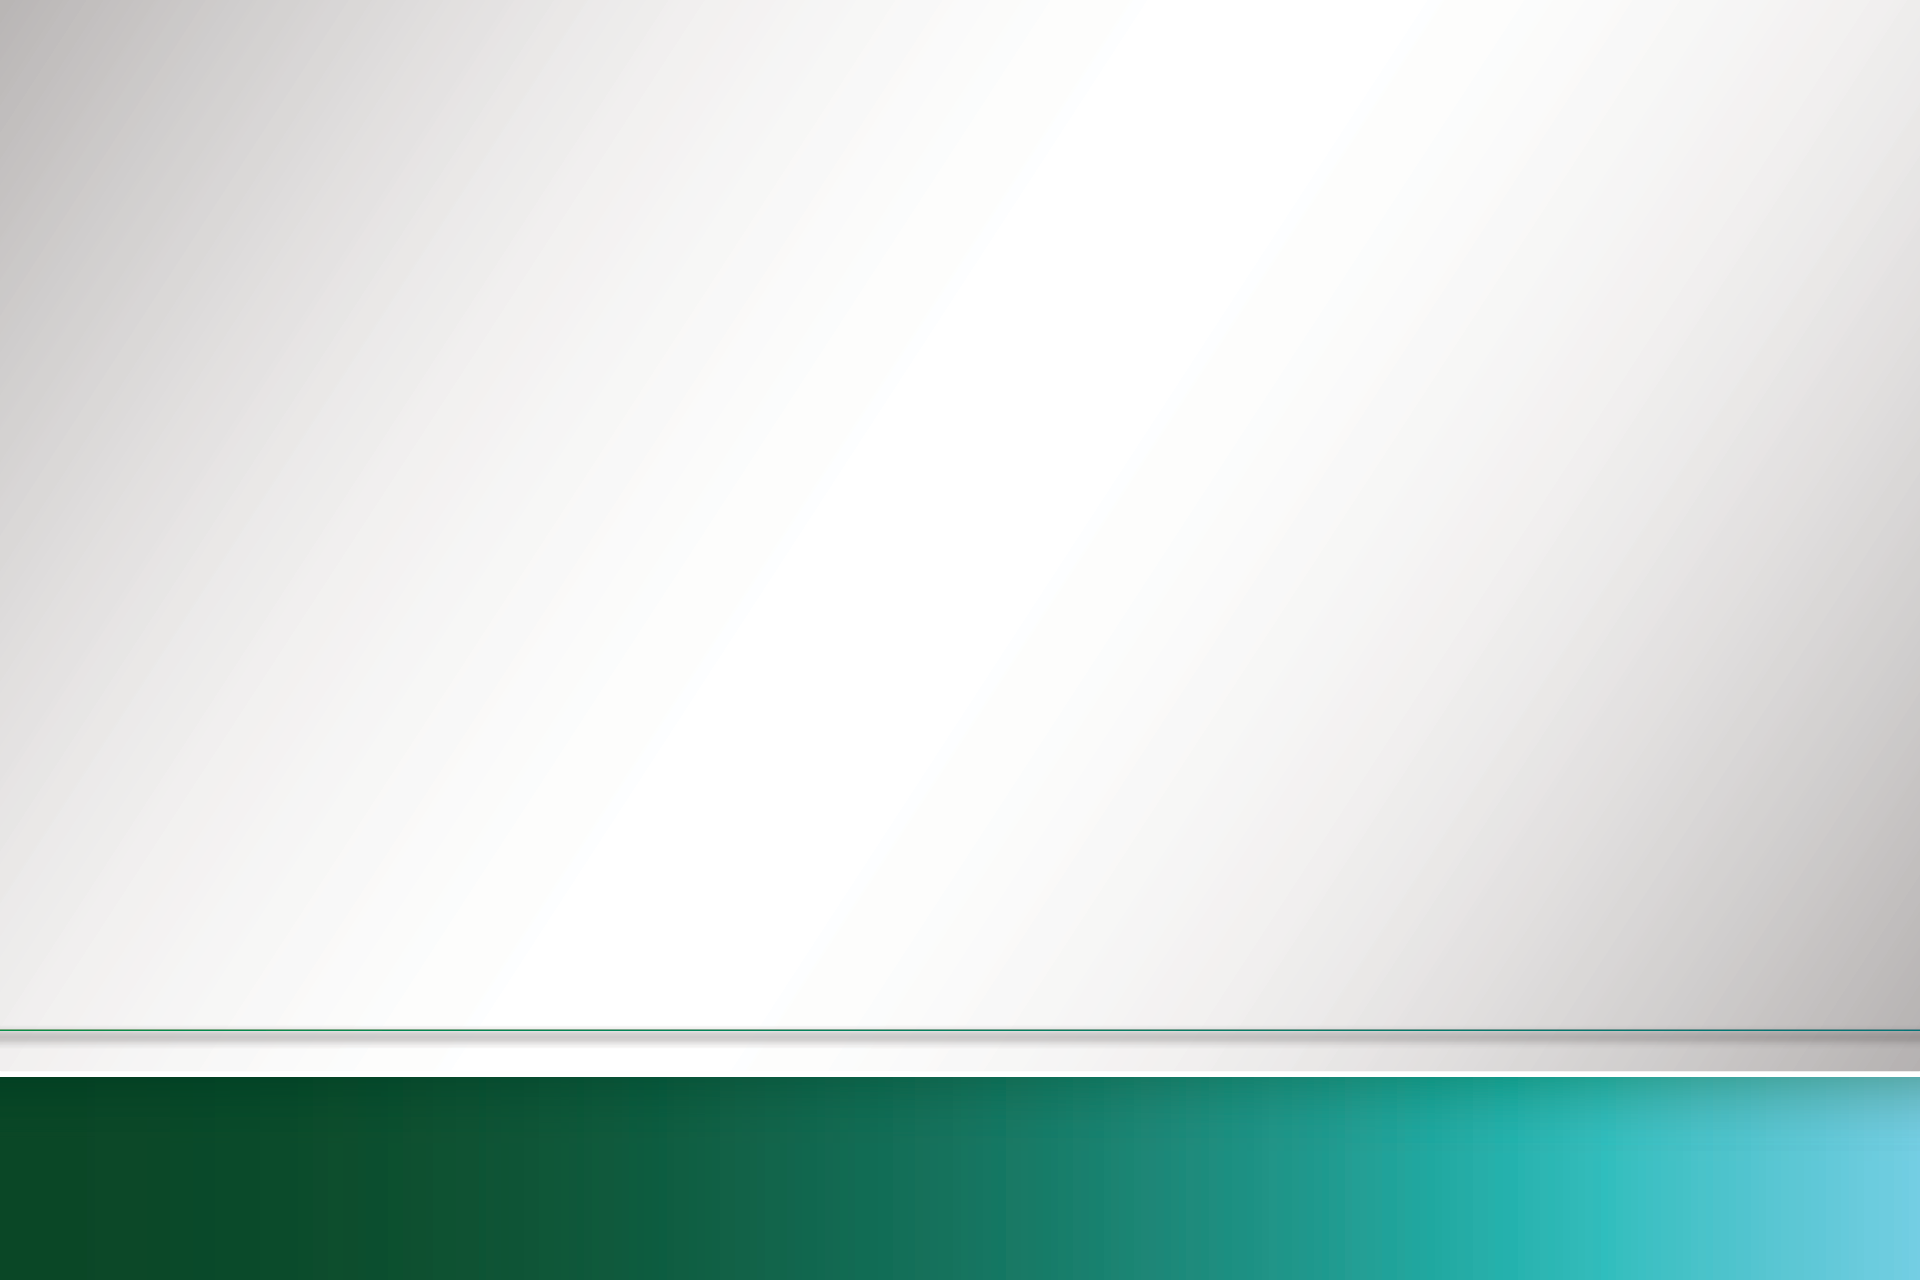
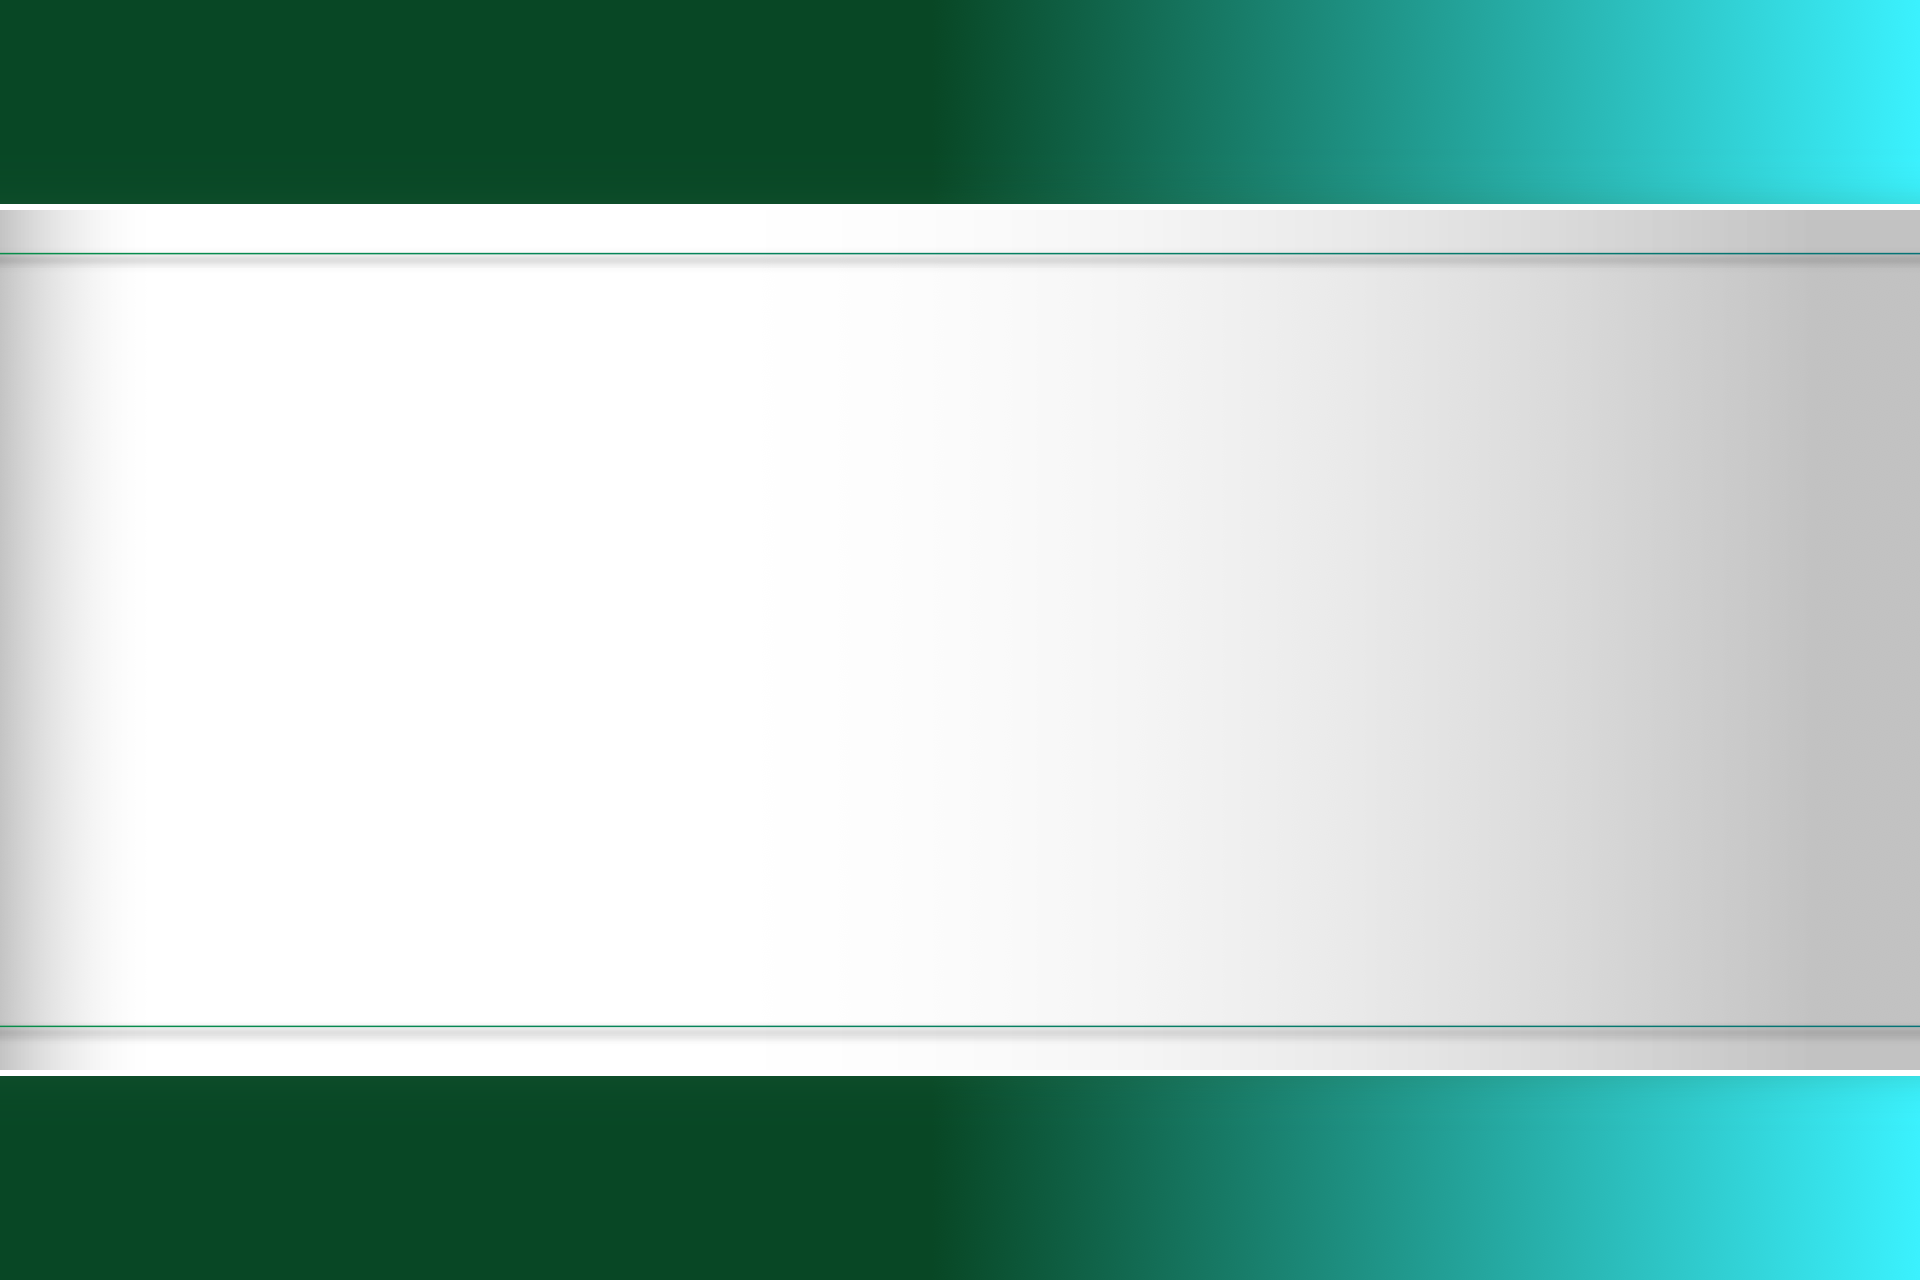
amination + interaction proper variable name todo: tap on img jump to page

diff --git a/template-train-01-001/js/main.js b/template-train-01-001/js/main.js
@@ -6,22 +6,22 @@ $(document).ready(function () {
 
     //animation, if have serveral class with the same time appear, delcare in an array
     const animations = {
-        300: [".class1", ".hello"],
-        500: [".class2"],
+        500: [".main-title", ".hello"],
+        700: [".hero-text", ".hero-img"],
     };
 
     for (const [offset, elem] of Object.entries(animations)) {
-        setTimeout(() => elem.forEach((e) => $(e).addClass("show")), offset);
+        setTimeout((e) => elem.forEach((e) => $(e).addClass("show")), offset);
     }
 
     // flow-slide
     var el = document.getElementById('container');
     swipedetect(el, function (swipedir) {
-        if (swipedir == 'left') {
-            window.goToSlide("003");
+        if (swipedir == 'left' && currentSlide != "006") {
+            window.goToSlide("002");
         }
-        if (swipedir == 'right') {
-            // disableSwipe = true;
+        if (swipedir == 'right' && currentSlide != "001") {
+            //window.goToSlide("001");
         }
     });
 });

diff --git a/template-train-01-006/js/main.js b/template-train-01-006/js/main.js
@@ -1,13 +1,16 @@
 $(document).ready(function () {
     // setting slide
-    currentSlide = "001";
+    currentSlide = "006";
     localStorage.setItem('current-slide', currentSlide);
     disableSwipe = false;
 
     //animation, if have serveral class with the same time appear, delcare in an array
     const animations = {
-        300: [".class1", ".hello"],
-        500: [".class2"],
+        300: [".thuoc"],
+        500: [".bieu-do-1"],
+        700: [".dau-lung"],
+        900: [".bieu-do-2"],
+        1100: [".elders"],
     };
 
     for (const [offset, elem] of Object.entries(animations)) {
@@ -18,10 +21,10 @@ $(document).ready(function () {
     var el = document.getElementById('container');
     swipedetect(el, function (swipedir) {
         if (swipedir == 'left') {
-            window.goToSlide("003");
+            //window.goToSlide("003");
         }
         if (swipedir == 'right') {
-            // disableSwipe = true;
+            window.goToSlide("005");
         }
     });
 });

diff --git a/template-train-01-006/css/main.css b/template-train-01-006/css/main.css
@@ -1,13 +1,4 @@
-.class1 {
-    opacity: 0;
-    transition: all 0.5s ease;
-}
-
-.class1.show {
-    opacity: 1;
-}
-
-.khung-xam-loz{
+.khung-items{
     display: flex;
     flex-direction: row;
     justify-content: space-between;
@@ -74,6 +65,23 @@
 }
 .elders{
     background-image: url(../images/image1046.png);
+}
+
+.thuoc,
+.bieu-do-1,
+.dau-lung,
+.bieu-do-2,
+.elders{
+    opacity: 0;
+    transition: all 0.5s ease;
+}
+
+.thuoc.show,
+.bieu-do-1.show,
+.dau-lung.show,
+.bieu-do-2.show,
+.elders.show{
+    opacity: 1;
 }
 
 

diff --git a/template-train-01-001/css/main.css b/template-train-01-001/css/main.css
@@ -6,6 +6,17 @@
 .class1.show {
     opacity: 1;
 }
+.main-title,
+.hero-img,
+.hero-text{
+    opacity: 0;
+    transition: all 0.5s ease;
+}
+.main-title.show,
+.hero-img.show,
+.hero-text.show{
+    opacity: 1;
+}
 
 .main-title{
     transition: all 0.5s ease;
@@ -26,11 +37,9 @@
 }
 
 .hero-img{
-
-
     width: 100vw;
     height: 100vh;
-    opacity: 1; 
+    opacity: 0; 
     position: absolute;
 
     background-image: url(../1.png);

diff --git a/template-train-01-001/index.html b/template-train-01-001/index.html
@@ -18,7 +18,7 @@
     <div id="container" class="bg">
       <div id="main-container">
         <!--start: content-->
-        <div class="ghost"></div>
+        
         <h1 class="main-title po green">Giải pháp giúp giảm đau nhức <br> xương khớp từ thiên nhiên <br> cho mọi nhà</h1>
 
         <div class="hero-text po green">

diff --git a/template-train-01-001/global/js/global.js b/template-train-01-001/global/js/global.js
@@ -193,7 +193,7 @@ $(document).ready(function () {
 
   window.goToSlide = function (slideId) {
     var me = this,
-      slideName = "Train-01-";
+      slideName = "template-train-01-";
     if (slideId) {
       if (slideId !== "006") {
         localStorage.setItem("prev-slide", slideId);

diff --git a/template-train-01-006/global/js/global.js b/template-train-01-006/global/js/global.js
@@ -193,7 +193,7 @@ $(document).ready(function () {
 
   window.goToSlide = function (slideId) {
     var me = this,
-      slideName = "Train-01-";
+      slideName = "template-train-01-";
     if (slideId) {
       if (slideId !== "006") {
         localStorage.setItem("prev-slide", slideId);

diff --git a/template-train-01-006/index.html b/template-train-01-006/index.html
@@ -22,7 +22,7 @@
         <div class="ghost"></div>
 
         <!--start: khung 5 hinh-->
-        <div class = "khung-xam-loz">
+        <div class = "khung-items">
           <div class = "khung-xam">
 
             <div class= "box-lorem white">
